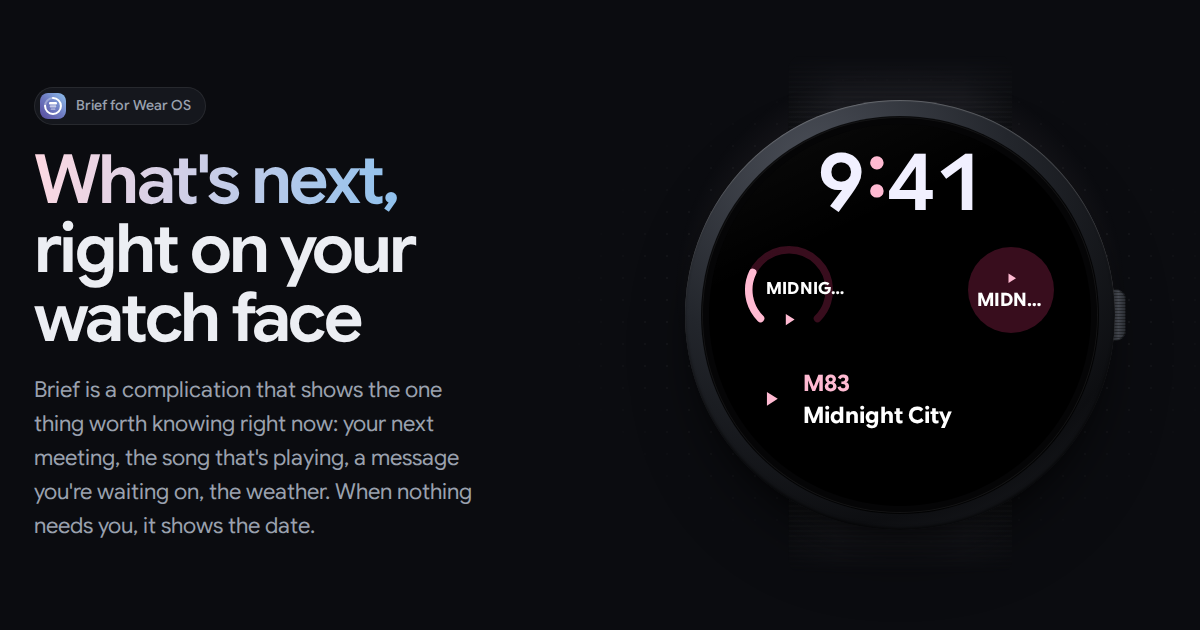
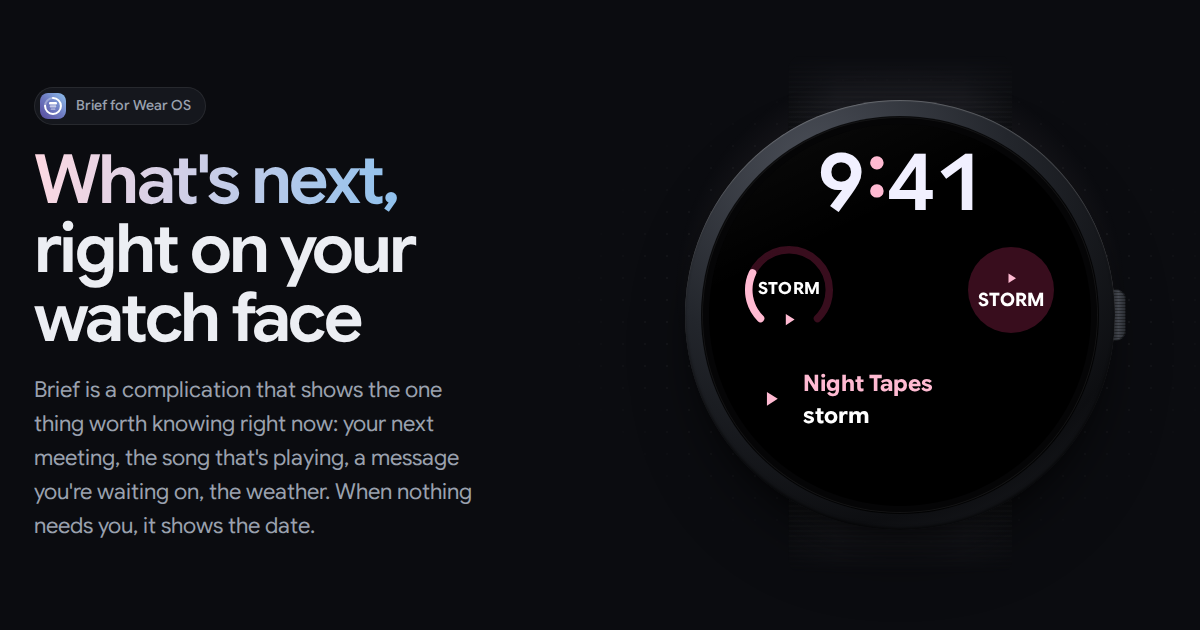
Brief page: play storm by Night Tapes, and only on the music glance
- Swap the preview to Night Tapes · storm (art, credit link, og image).
- Lower the volume to 0.35.
- Sound follows the "Now playing" glance: it fades out when another glance
  takes over and resumes when music comes back, until the visitor pauses.
- Tapping the watch while music is showing plays or pauses, like tapping
  the complication. The dial now carries the img role so the button isn't
  nested inside it.
- The complication glyph flips between play and pause, matching the
  watch app's status icon.
- Fades are cancellable, so a quick away-and-back doesn't leave music
  silent, and a glance change during loading doesn't leave it playing.
- Widen the ring's text box so a short title like STORM fits.

Claude-Session: https://claude.ai/code/session_017Ch2ZR7CYtnYogytzbxNRx

Changed region(s): [[0.6475, 0.573, 0.8017, 0.6937], [0.6167, 0.4222, 0.7092, 0.4825], [0.8017, 0.4524, 0.8942, 0.4825]]

diff --git a/brief/demo.js b/brief/demo.js
@@ -60,21 +60,26 @@
   const LOOKAHEAD_MIN = 30;
   let eventStart = Date.now() + 12 * MIN;
 
-  const TRACK_LEN_S = 241; // 4:01
+  const TRACK_LEN_S = 248; // 4:08
   const trackStartedAt = Date.now() - 62_000;
 
   // The one real song: Apple's official 30 s preview, streamed from Apple
   // (never hosted here), credited with a link back to Apple Music. It only
   // plays when someone presses play.
   const SONG = {
-    title: "Midnight City",
-    artist: "M83",
-    album: "Hurry Up, We're Dreaming",
+    title: "storm",
+    artist: "Night Tapes",
+    album: "portals//polarities",
     preview:
-      "https://audio-ssl.itunes.apple.com/itunes-assets/AudioPreview221/v4/24/09/79/2409794c-3d5d-af26-580e-7dc00ee4f207/mzaf_369629549966021675.plus.aac.p.m4a",
-    art: "https://is1-ssl.mzstatic.com/image/thumb/Music211/v4/cb/7b/a9/cb7ba903-b5f1-cc21-90db-7a81b7aa0997/724596951057.jpg/600x600bb.jpg",
+      "https://audio-ssl.itunes.apple.com/itunes-assets/AudioPreview211/v4/6a/f8/89/6af88923-480d-0a6f-ee50-d83f8a968a32/mzaf_1016940614169845687.plus.aac.p.m4a",
+    art: "https://is1-ssl.mzstatic.com/image/thumb/Music211/v4/f8/59/e2/f859e2a3-3d98-98b4-0c01-d8007e77093e/067003173155.png/600x600bb.jpg",
   };
+  const SONG_VOLUME = 0.35; // background level, not a blast
   let audio = null; // created on first play
+  // Sound belongs to the "Now playing" glance: once someone starts the song it
+  // plays whenever music is on the watch, pauses when another glance takes
+  // over, and stops following the glance when they pause it themselves.
+  let wantSound = false;
   let songFailed = false;
   // Apple's previews are AAC; every major browser plays them, but some builds
   // (open-source Chromium, for one) can't, and then there's no button at all.
@@ -99,7 +104,7 @@
     {
       id: "music",
       name: "Now playing",
-      blurb: "Track and artist, with play and pause.",
+      blurb: canPlaySong ? "Tap the watch to play or pause." : "Track and artist, with play and pause.",
       bg: "#7B2949",
       fg: "#FFD9E2",
       icon: "music",
@@ -112,6 +117,8 @@
           : (((now - trackStartedAt) / 1000) % TRACK_LEN_S) / TRACK_LEN_S;
         const paused = live && !songPlaying();
         return {
+          // Like the watch: ▶ while playing, ⏸ while paused (a status glyph)
+          face: paused ? "pause" : "play",
           long: { title: SONG.artist, text: SONG.title },
           ranged: { lines: [SONG.title], value: progress },
           short: { lines: [SONG.title] },
@@ -333,6 +340,12 @@
     });
   }
 
+  // A glance can swap the complication glyph while it's showing (music's play/pause).
+  const setFace = (node, face) => {
+    const use = face && node?.querySelector(".cx-icon use");
+    if (use && use.getAttribute("href") !== `#i-${face}`) use.setAttribute("href", `#i-${face}`);
+  };
+
   const linesHtml = (lines) =>
     lines.map((l, i) => `<span class="cx-line${i ? " cx-line-2" : ""}" data-k="l${i}">${esc(l)}</span>`).join("");
 
@@ -351,7 +364,7 @@
         const { title, text } = g.long;
         this.node = el(`
           <div class="cx-long-item${title ? "" : " single"}">
-            ${svgIcon(src.face, "cx-icon")}
+            ${svgIcon(g.face || src.face, "cx-icon")}
             <span class="cx-lines">
               ${title ? `<span class="cx-title" data-k="title">${esc(title)}</span>` : ""}
               <span class="cx-text" data-k="text">${esc(text)}</span>
@@ -360,6 +373,7 @@
         swap(stack, this.node, animate);
       },
       patch(g) {
+        setFace(this.node, g.face);
         setText(this.node, "title", g.long.title);
         setText(this.node, "text", g.long.text);
       },
@@ -385,12 +399,13 @@
         this.node = el(`
           <div class="cx-ranged-item${g.ranged.lines.length > 1 ? " two" : ""}">
             <span class="cx-lines">${linesHtml(g.ranged.lines)}</span>
-            ${svgIcon(src.face, "cx-icon")}
+            ${svgIcon(g.face || src.face, "cx-icon")}
           </div>`);
         swap(stack, this.node, animate);
         setRing(g.ranged);
       },
       patch(g) {
+        setFace(this.node, g.face);
         g.ranged.lines.forEach((l, i) => setText(this.node, `l${i}`, l));
         setRing(g.ranged);
       },
@@ -405,12 +420,13 @@
       mount(src, g, animate) {
         this.node = el(`
           <div class="cx-short-item${g.short.lines.length > 1 ? " two" : ""}">
-            ${svgIcon(src.face, "cx-icon")}
+            ${svgIcon(g.face || src.face, "cx-icon")}
             <span class="cx-lines">${linesHtml(g.short.lines)}</span>
           </div>`);
         swap(stack, this.node, animate);
       },
       patch(g) {
+        setFace(this.node, g.face);
         g.short.lines.forEach((l, i) => setText(this.node, `l${i}`, l));
       },
     });
@@ -587,6 +603,7 @@
     root.style.setProperty("--src-fg", src.fg);
     root.dataset.source = src.id;
     surfaces.forEach((s) => s.mount(src, g, animate));
+    if (src.id === "music" && wantSound) startAudio();
 
     chips.forEach((c) => {
       const on = c.dataset.chip === src.id;
@@ -643,17 +660,22 @@
   const musicIndex = indexOf("music");
   if (!canPlaySong) root.classList.add("no-song");
 
+  // Resolves true when the fade finishes, false when a newer fade took over
+  // (e.g. music came straight back while it was fading out).
+  let fadeGen = 0;
   const fadeTo = (target, ms) =>
     new Promise((done) => {
-      if (!audio) return done();
+      if (!audio) return done(false);
+      const gen = ++fadeGen;
       const from = audio.volume;
       const t0 = performance.now();
       const step = (t) => {
+        if (gen !== fadeGen) return done(false);
         const k = Math.min(1, (t - t0) / ms);
         try {
           audio.volume = from + (target - from) * k;
         } catch {}
-        k < 1 ? requestAnimationFrame(step) : done();
+        k < 1 ? requestAnimationFrame(step) : done(true);
       };
       requestAnimationFrame(step);
     });
@@ -666,10 +688,12 @@
 
   const refreshSongUi = () => {
     const on = songPlaying();
+    if (on) clearTimeout(timer); // the watch stays on music while it plays
     root.classList.toggle("song-playing", on);
     songToggles.forEach((b) => {
       b.setAttribute("aria-pressed", String(on));
       b.setAttribute("aria-label", on ? `Pause ${SONG.title} by ${SONG.artist}` : `Play ${SONG.title} by ${SONG.artist}`);
+      if (b.classList.contains("watch-tap")) b.title = on ? "Tap to pause" : "Tap to play";
       b.querySelector(".listen-icon use")?.setAttribute("href", on ? "#i-pause" : "#i-play");
       const label = b.querySelector(".listen-title");
       if (label) label.textContent = on ? "Playing on the watch" : audio?.currentTime > 0 ? "Paused" : "Play a song";
@@ -685,9 +709,12 @@
     audio.addEventListener("play", refreshSongUi);
     audio.addEventListener("pause", () => {
       refreshSongUi();
-      schedule();
+      // Paused on the music glance: let the demo move on. (Paused because the
+      // glance changed: show() already set the timer.)
+      if (current?.id === "music") schedule();
     });
     audio.addEventListener("ended", () => {
+      wantSound = false;
       audio.currentTime = 0;
       refreshSongUi();
       schedule();
@@ -703,6 +730,7 @@
     audio.addEventListener("error", () => {
       // Couldn't stream it: say so, and hand the watch back to the demo.
       songFailed = true;
+      wantSound = false;
       refreshSongUi();
       songToggles.forEach((b) => {
         b.disabled = true;
@@ -719,31 +747,52 @@
         artwork: [{ src: SONG.art, sizes: "600x600", type: "image/jpeg" }],
       });
       navigator.mediaSession.setActionHandler("play", () => playSong());
-      navigator.mediaSession.setActionHandler("pause", () => pauseSong());
-      navigator.mediaSession.setActionHandler("stop", () => pauseSong());
+      navigator.mediaSession.setActionHandler("pause", () => stopFollowing());
+      navigator.mediaSession.setActionHandler("stop", () => stopFollowing());
     }
     return audio;
   };
 
-  function playSong() {
+  // Starts the audio (the glance is already music).
+  function startAudio() {
+    if (!canPlaySong || songFailed) return;
+    if (songPlaying()) return void fadeTo(SONG_VOLUME, 300); // cancel a fade-out
     const a = ensureAudio();
-    if (current?.id !== "music") show(musicIndex, { hold: Infinity });
     clearTimeout(timer);
     a.volume = 0;
     a.play().then(
-      () => fadeTo(0.9, 450),
-      () => refreshSongUi()
+      // The glance may have moved on while the stream was loading.
+      () => (wantSound && current?.id === "music" ? fadeTo(SONG_VOLUME, 450) : pauseSong()),
+      (err) => {
+        // Blocked or failed: wait for the next tap. (AbortError is just our
+        // own pause() landing before the stream started.)
+        if (err?.name !== "AbortError") wantSound = false;
+        refreshSongUi();
+      }
     );
   }
 
+  // Someone asked for the song: put music on the watch, and play.
+  function playSong() {
+    wantSound = true;
+    if (current?.id !== "music") show(musicIndex, { hold: Infinity });
+    else startAudio();
+  }
+
+  // Leaving the music glance: fade out, but keep following the glance.
   async function pauseSong() {
     if (!songPlaying()) return;
-    await fadeTo(0, 220);
-    audio.pause();
+    if (await fadeTo(0, 220)) audio.pause();
+  }
+
+  // Someone paused it themselves: stop following the glance.
+  function stopFollowing() {
+    wantSound = false;
+    pauseSong();
   }
 
   songToggles.forEach((b) =>
-    b.addEventListener("click", () => (songPlaying() ? pauseSong() : playSong()))
+    b.addEventListener("click", () => (songPlaying() ? stopFollowing() : playSong()))
   );
 
   // ---------------------------------------------------------------------------

diff --git a/brief/index.html b/brief/index.html
@@ -111,23 +111,23 @@
           </div>
           <p class="fine rise" style="--d:4">Free. Needs a Wear OS 4+ watch and an Android phone.</p>
           <div class="listen listen-intro rise" style="--d:5">
-            <button type="button" class="listen-btn" data-song-toggle aria-pressed="false" aria-label="Play Midnight City by M83">
-              <img class="listen-art" src="https://is1-ssl.mzstatic.com/image/thumb/Music211/v4/cb/7b/a9/cb7ba903-b5f1-cc21-90db-7a81b7aa0997/724596951057.jpg/600x600bb.jpg" alt="" width="40" height="40" loading="lazy" decoding="async" />
-              <span class="listen-text"><span class="listen-title">Play a song</span><span class="listen-sub">Midnight City · M83</span></span>
+            <button type="button" class="listen-btn" data-song-toggle aria-pressed="false" aria-label="Play storm by Night Tapes">
+              <img class="listen-art" src="https://is1-ssl.mzstatic.com/image/thumb/Music211/v4/f8/59/e2/f859e2a3-3d98-98b4-0c01-d8007e77093e/067003173155.png/600x600bb.jpg" alt="" width="40" height="40" loading="lazy" decoding="async" />
+              <span class="listen-text"><span class="listen-title">Play a song</span><span class="listen-sub">storm · Night Tapes</span></span>
               <span class="listen-icon"><svg viewBox="0 0 24 24" aria-hidden="true"><use href="#i-play"></use></svg></span>
             </button>
-            <a class="listen-credit" href="https://music.apple.com/us/album/midnight-city/828259375?i=828259377" target="_blank" rel="noopener noreferrer">30-second preview from Apple Music</a>
+            <a class="listen-credit" href="https://music.apple.com/us/album/storm/1808825202?i=1808826278" target="_blank" rel="noopener noreferrer">30-second preview from Apple Music</a>
           </div>
         </div>
 
         <div class="story-visual" data-tilt>
           <div class="story-stage rise" style="--d:2">
-            <div class="watch" role="img" aria-label="A watch face with Brief in three complication slots. It cycles through now playing, a notification, a calendar countdown, low phone battery, the weather, a reminder and the date.">
+            <div class="watch">
               <div class="watch-strap top"></div>
               <div class="watch-strap bottom"></div>
               <span class="watch-crown"></span>
               <div class="watch-case">
-                <div class="dial">
+                <div class="dial" role="img" aria-label="A watch face with Brief in three complication slots. It cycles through now playing, a notification, a calendar countdown, low phone battery, the weather, a reminder and the date.">
                   <time class="face-time" data-clock><span data-k="h">10</span><span class="colon">:</span><span data-k="m">08</span></time>
                   <div class="cx cx-ranged" data-cx="ranged">
                     <svg class="ring" viewBox="0 0 100 100" aria-hidden="true">
@@ -150,6 +150,7 @@
                     </div>
                   </div>
                 </div>
+                <button type="button" class="watch-tap" data-song-toggle aria-pressed="false" aria-label="Play storm by Night Tapes" title="Tap to play"></button>
               </div>
             </div>
 
@@ -165,13 +166,13 @@
             </div>
             <p class="demo-caption" data-caption><strong data-k="name">Calendar</strong> · <span data-k="blurb">Your next event, counting down.</span></p>
             <div class="listen listen-stage">
-            <button type="button" class="listen-btn" data-song-toggle aria-pressed="false" aria-label="Play Midnight City by M83">
-              <img class="listen-art" src="https://is1-ssl.mzstatic.com/image/thumb/Music211/v4/cb/7b/a9/cb7ba903-b5f1-cc21-90db-7a81b7aa0997/724596951057.jpg/600x600bb.jpg" alt="" width="40" height="40" loading="lazy" decoding="async" />
-              <span class="listen-text"><span class="listen-title">Play a song</span><span class="listen-sub">Midnight City · M83</span></span>
-              <span class="listen-icon"><svg viewBox="0 0 24 24" aria-hidden="true"><use href="#i-play"></use></svg></span>
-            </button>
-            <a class="listen-credit" href="https://music.apple.com/us/album/midnight-city/828259375?i=828259377" target="_blank" rel="noopener noreferrer">30-second preview from Apple Music</a>
-          </div>
+              <button type="button" class="listen-btn" data-song-toggle aria-pressed="false" aria-label="Play storm by Night Tapes">
+                <img class="listen-art" src="https://is1-ssl.mzstatic.com/image/thumb/Music211/v4/f8/59/e2/f859e2a3-3d98-98b4-0c01-d8007e77093e/067003173155.png/600x600bb.jpg" alt="" width="40" height="40" loading="lazy" decoding="async" />
+                <span class="listen-text"><span class="listen-title">Play a song</span><span class="listen-sub">storm · Night Tapes</span></span>
+                <span class="listen-icon"><svg viewBox="0 0 24 24" aria-hidden="true"><use href="#i-play"></use></svg></span>
+              </button>
+              <a class="listen-credit" href="https://music.apple.com/us/album/storm/1808825202?i=1808826278" target="_blank" rel="noopener noreferrer">30-second preview from Apple Music</a>
+            </div>
           </div>
         </div>
 

diff --git a/brief/brief.css b/brief/brief.css
@@ -244,7 +244,7 @@
   align-items: center;
   /* In dial units, not a percentage: a percentage of the grid cell grew with
      the unwrapped title, so long names spilled out of the ring */
-  width: 15cqw;
+  width: 17cqw;
   translate: 0 -6%;
 }
 .cx-ranged-item.two .cx-lines { font-size: 4.7cqw; line-height: 0.95; }
@@ -463,6 +463,38 @@
 
 .song-playing .chip.is-active::after { opacity: 0; animation: none; }
 .no-song .listen { display: none !important; }
+
+/* Tapping the watch plays or pauses, like tapping the complication on a real
+   one. It only exists while "Now playing" is on the watch. */
+.watch-tap {
+  display: none;
+  position: absolute;
+  inset: 5.5%;
+  z-index: 2;
+  border: 0;
+  border-radius: 50%;
+  padding: 0;
+  background: transparent;
+  cursor: pointer;
+  -webkit-tap-highlight-color: transparent;
+  transition: box-shadow 0.3s var(--ease);
+}
+:root[data-source="music"] .watch-tap { display: block; }
+.no-song .watch-tap,
+.watch-tap:disabled { display: none !important; }
+.watch-tap:hover { box-shadow: inset 0 0 0 2px oklch(from var(--src-fg) l c h / 0.35); }
+.watch-tap:focus-visible { outline: 2px solid var(--src-fg); outline-offset: 4px; }
+.watch-tap::after {
+  content: "";
+  position: absolute;
+  inset: 0;
+  border-radius: inherit;
+  background: radial-gradient(circle, oklch(from var(--src-fg) l c h / 0.22), transparent 62%);
+  opacity: 0;
+  transition: opacity 0.5s var(--ease);
+  pointer-events: none;
+}
+.watch-tap:active::after { opacity: 1; transition-duration: 0s; }
 
 /* One button per layout: under the intro on phones (the pinned watch stays
    compact), inside the watch stage on desktop */

diff --git a/README.md b/README.md
@@ -67,16 +67,20 @@ phone widget. The clock, the event countdown and the song position are live.
   `res/drawable` Material Symbols, plus a few rounded symbols for the page.
 - It pauses when it's off screen or the tab is hidden, has a pause button, and
   uses a plain crossfade for people who prefer reduced motion.
-- **The song.** "Play a song" streams Apple's official 30-second preview of
-  M83 · Midnight City straight from Apple's servers (it is never hosted in
-  this repo) and credits it with a link to Apple Music, the same approach as
-  tryalcove.com. It only starts when someone presses play. While it plays,
-  the watch, tile and widget follow the real position, the widget's button
-  flips between play and pause, and the Media Session API puts the track in
-  the phone's own media controls. Browsers that can't play AAC never see the
-  button. The track details are the `SONG` object in `demo.js`; a preview URL
-  can change, so if it ever 404s, look the song up again with the iTunes
-  Search API (`https://itunes.apple.com/search?term=m83+midnight+city&entity=song`).
+- **The song.** "Play a song" (or tapping the watch while "Now playing" is
+  on it) streams Apple's official 30-second preview of Night Tapes · storm
+  straight from Apple's servers (it is never hosted in this repo) and credits
+  it with a link to Apple Music, the same approach as tryalcove.com. It only
+  starts when someone presses play, and plays at a low volume (`SONG_VOLUME`).
+  The sound belongs to the music glance: it fades out when another glance
+  takes over and comes back when music does, until someone pauses it
+  themselves. While it plays, the watch, tile and widget follow the real
+  position, the complication's glyph flips between play and pause like the
+  watch app's, and the Media Session API puts the track in the phone's own
+  media controls. Browsers that can't play AAC never see the button. The
+  track details are the `SONG` object in `demo.js`; a preview URL can change,
+  so if it ever 404s, look the song up again with the iTunes Search API
+  (`https://itunes.apple.com/search?term=night+tapes+storm&entity=song`).
 
 To change the sample content, edit the `SOURCES` array at the top of
 `demo.js`.
